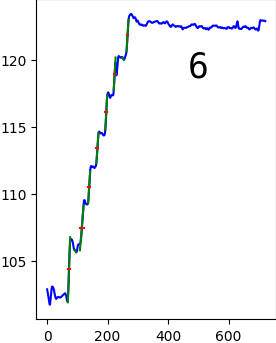
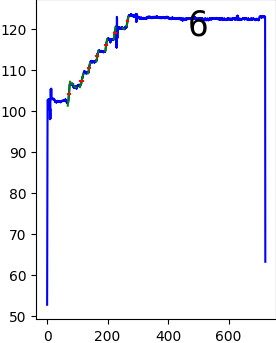
added simpler smoothing

diff --git a/test_code/plot_data.py b/test_code/plot_data.py
@@ -15,6 +15,8 @@ matplotlib.use('TkAgg')
 from whittaker_eilers import WhittakerSmoother
 
 
+
+
 def extract_nonzero_segments(vec):
     """
     Extract nonzero segments from a numpy vector.
@@ -227,21 +229,28 @@ for i in range(len(time)):
 
 print(df)
 
+def moving_average(data, window_size):
+    box = np.ones(window_size) / window_size
+    return np.convolve(data, box, mode='same')
+
+
 
 # first do angle measurement
 whittaker_smoother = WhittakerSmoother(lmbda=1.0e5, order=2, data_length=len(kalman_x))
 smoothed_kalman_x = whittaker_smoother.smooth(kalman_x)
+smoothed_kalman_x = moving_average(kalman_x, 35)
 
 steady_state_angle = np.where(time > time[-1]-60.0, smoothed_kalman_x, 0.0)
 steady_state_angle = steady_state_angle[steady_state_angle != 0].mean()
 print(steady_state_angle)
 smoothed_kalman_x = smoothed_kalman_x - steady_state_angle
 
-#plt.figure()
-#plt.plot(time, smoothed_kalman_x)
+plt.figure()
+plt.plot(time, smoothed_kalman_x)
 
 whittaker_smoother = WhittakerSmoother(lmbda=1000000, order=2, data_length=len(df["Altitude"].to_numpy()))
 smoothed_alt = whittaker_smoother.smooth(df["Altitude"].to_numpy())
+smoothed_alt = moving_average(df["Altitude"].to_numpy(), 35)
 
 #plt.figure()
 #plt.plot(time, smoothed_alt, color = 'blue')
@@ -253,8 +262,8 @@ ax.plot(time, smoothed_alt, color = 'blue')
 
 #combined metric
 tilt_threshold = -4.0 # degrees
-height_threshold = 1.4 # meters
-air_pressure_time_buffer = 2.5 #seconds
+height_threshold = 1.55 # meters
+air_pressure_time_buffer = 2.25 #seconds
 rise_intervals = np.where(smoothed_kalman_x < tilt_threshold, smoothed_alt, 0.0)
 rise_intervals_time = np.where(smoothed_kalman_x < tilt_threshold, time, 0.0)
 rise_intervals_indices = np.where(smoothed_kalman_x < tilt_threshold, np.arange(len(smoothed_kalman_x)), 0.0)
@@ -299,19 +308,20 @@ for i in range(len(time_intervals)):
 
 ax.text(500,np.array(smoothed_alt).mean(),floor_map[floor_increase_counter], ha='center', fontsize=25, family="monospace")
 fig.savefig("data_plot.png", bbox_inches='tight', pad_inches=0, dpi=100.0)
-#plt.show()
+plt.show()
 
 # make some images for ops code:
 fig, ax = plt.subplots(figsize=(2.4, 3.2))
 fig.subplots_adjust(0, 0, 1, 1)
 
-ax.text(.5,.5,"Collecting Data", ha='center', fontsize=14, family="monospace")
-ax.axis('off')
-fig.savefig("collecting_data.png", bbox_inches='tight', pad_inches=0, dpi=100.0)
 
-fig, ax = plt.subplots(figsize=(2.4, 3.2))
-fig.subplots_adjust(0, 0, 1, 1)
-
-ax.text(.5,.5,"Processing Data", ha='center', fontsize=14, family="monospace")
-ax.axis('off')
-fig.savefig("processing_data.png", bbox_inches='tight', pad_inches=0, dpi=100.0)
+#ax.text(.5,.5,"Collecting Data", ha='center', fontsize=14, family="monospace")
+#ax.axis('off')
+#fig.savefig("collecting_data.png", bbox_inches='tight', pad_inches=0, dpi=100.0)
+#
+#fig, ax = plt.subplots(figsize=(2.4, 3.2))
+#fig.subplots_adjust(0, 0, 1, 1)
+#
+#ax.text(.5,.5,"Processing Data", ha='center', fontsize=14, family="monospace")
+#ax.axis('off')
+#fig.savefig("processing_data.png", bbox_inches='tight', pad_inches=0, dpi=100.0)

diff --git a/test_code/run_with_display.py b/test_code/run_with_display.py
@@ -6,7 +6,7 @@ import os
 import sys
 import smbus
 
-#from whittaker_eilers import WhittakerSmoother
+
 import pandas as pd
 import matplotlib.pyplot as plt
 import numpy as np
@@ -18,6 +18,10 @@ from PIL import Image,ImageDraw,ImageFont
 
 # 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
 
+
+def moving_average(data, window_size):
+    box = np.ones(window_size) / window_size
+    return np.convolve(data, box, mode='same')
 
 # define BMP388 Device I2C address
 I2C_ADD_BMP388_AD0_LOW = 0x76
@@ -436,17 +440,17 @@ disp.ShowImage(image2)
 
 # now post process data
 # first do angle measurement
-'''
-whittaker_smoother = WhittakerSmoother(lmbda=1.0e5, order=2, data_length=len(kalman_x))
-smoothed_kalman_x = whittaker_smoother.smooth(kalman_x)
+
+
+smoothed_kalman_x = moving_average(kalmanx, 35)
 
 steady_state_angle = np.where(time_v > time_v[-1]-60.0, smoothed_kalman_x, 0.0)
 steady_state_angle = steady_state_angle[steady_state_angle != 0].mean()
 print(steady_state_angle)
 smoothed_kalman_x = smoothed_kalman_x - steady_state_angle
 
-whittaker_smoother = WhittakerSmoother(lmbda=1000000, order=2, data_length=len(altitude))
-smoothed_alt = whittaker_smoother.smooth(altitude)
+
+smoothed_alt = moving_average(altitude, 35)
 
 fig, ax = plt.subplots(figsize=(2.4, 3.2))
 fig.subplots_adjust(0, 0, 1, 1)
@@ -455,8 +459,8 @@ ax.plot(time, smoothed_alt, color = 'blue')
 
 #combined metric
 tilt_threshold = -4.0 # degrees
-height_threshold = 1.4 # meters
-air_pressure_time_buffer = 2.5 #seconds
+height_threshold = 1.65 # meters
+air_pressure_time_buffer = 2.25 #seconds
 rise_intervals = np.where(smoothed_kalman_x < tilt_threshold, smoothed_alt, 0.0)
 rise_intervals_time = np.where(smoothed_kalman_x < tilt_threshold, time_v, 0.0)
 rise_intervals_indices = np.where(smoothed_kalman_x < tilt_threshold, np.arange(len(smoothed_kalman_x)), 0.0)
@@ -504,9 +508,9 @@ fig.savefig('/home/mmidd/imu/test_code/data_plot.png', bbox_inches='tight', pad_
 
 image2 = Image.open('/home/mmidd/imu/test_code/data_plot.png')
 disp.ShowImage(image2)
-'''
+
 time.sleep(40.0)
 disp.module_exit()
 
-time.sleep(5.0)
+time.sleep(10.0)
 # os.system("sudo shutdown now")
